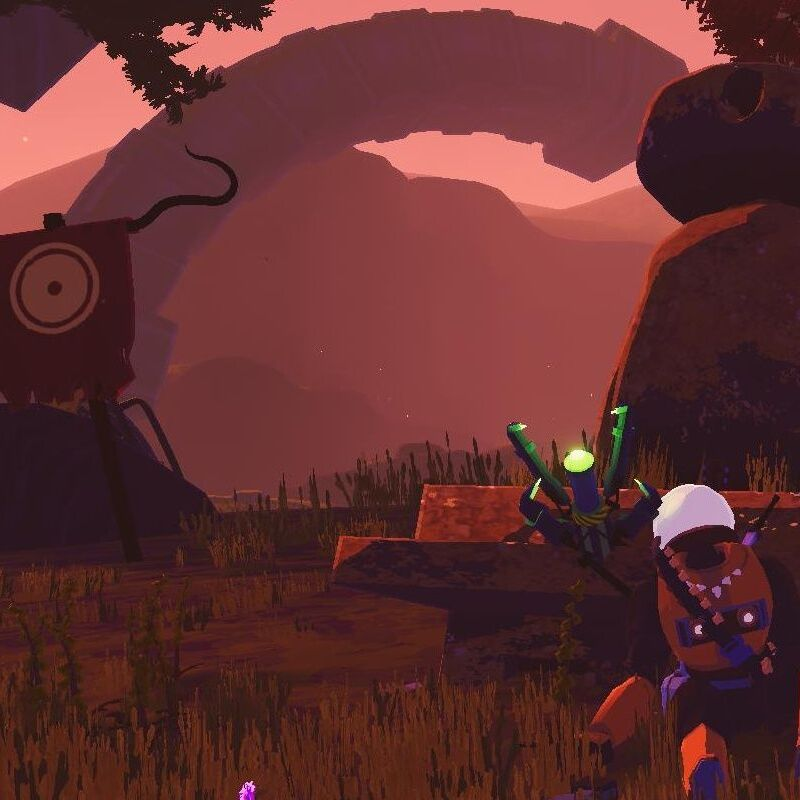
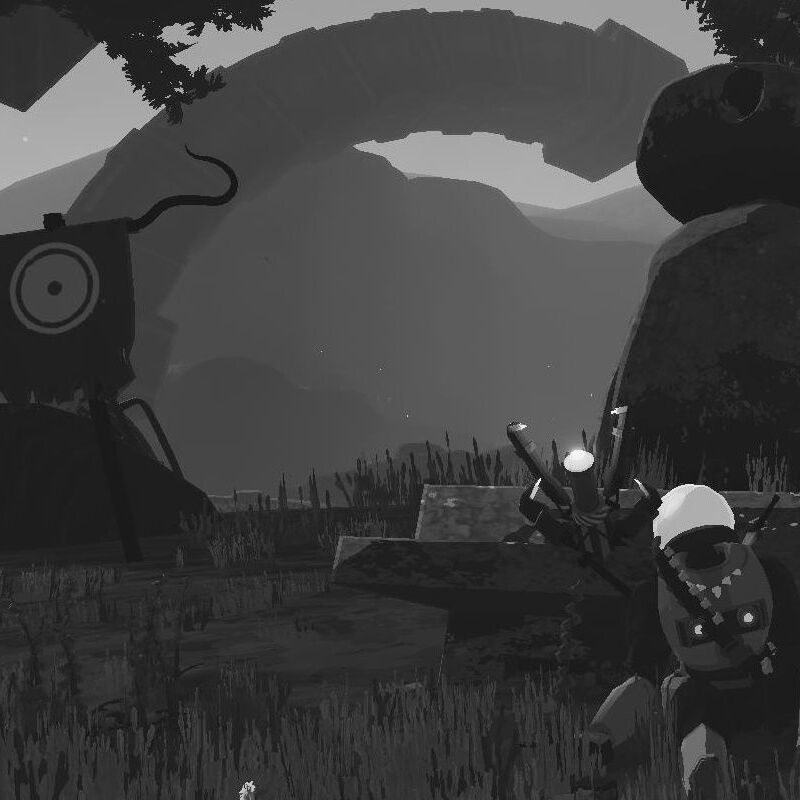
Edited lab07

diff --git a/lab07/lab07.cpp b/lab07/lab07.cpp
@@ -15,88 +15,61 @@ constexpr int N = W * H;
 static uint8_t src[N];
 
 
-static void blur3x3_scalar(const uint8_t* s, uint8_t* d, int w, int h)
-{
+static void blur2x2_scalar(const uint8_t* s, uint8_t* d, int w, int h) {
     std::fill(d, d + w * h, 0);
-    for (int y = 1; y < h - 1; ++y) {
-        const uint8_t* r0 = s + (y - 1) * w;
-        const uint8_t* r1 = s + (y    ) * w;
-        const uint8_t* r2 = s + (y + 1) * w;
-
+    for (int y = 0; y < h - 1; ++y) {
+        const uint8_t* r0 = s + y * w;
+        const uint8_t* r1 = s + (y + 1) * w;
         uint8_t* out = d + y * w;
-        for (int x = 1; x < w - 1; ++x) {
-            int sum = r0[x - 1] + r0[x] + r0[x + 1] + r1[x - 1] + r1[x] + r1[x + 1] + r2[x - 1] + r2[x] + r2[x + 1];
-            out[x] = (uint8_t)(sum / 9);
+
+        for (int x = 0; x < w - 1; ++x) {
+            int sum = r0[x] + r0[x + 1] + r1[x] + r1[x + 1];
+            out[x] = (uint8_t)(sum / 4);
         }
     }
 }
 
 
-static inline __m128i div9_u16_to_u8_exact(__m256i s_u16) {
-    const __m256i mul = _mm256_set1_epi16(7282);
-    __m256i q_u16 = _mm256_mulhi_epu16(s_u16, mul);
-    __m128i lo = _mm256_castsi256_si128(q_u16);
-    __m128i hi = _mm256_extracti128_si256(q_u16, 1);
-    return _mm_packus_epi16(lo, hi);
-}
-
-
-static void blur3x3_avx2(const uint8_t* s, uint8_t* d, int w, int h) {
+static void blur2x2_avx2(const uint8_t* s, uint8_t* d, int w, int h) {
     std::fill(d, d + w * h, 0);
 
-    std::vector<uint16_t> H0(w), H1(w), H2(w);
-
-    auto horiz_sum = [&](int y, std::vector<uint16_t>& Hr) {
-        Hr[0] = Hr[w - 1] = 0;
-        const uint8_t* r = s + y * w;
-
-        int x = 1;
-        for (; x + 15 < w - 1; x += 16) {
-            __m128i a = _mm_loadu_si128((const __m128i*)(r + (x - 1)));
-            __m128i b = _mm_loadu_si128((const __m128i*)(r + (x)));
-            __m128i c = _mm_loadu_si128((const __m128i*)(r + (x + 1)));
-
-            __m256i a16 = _mm256_cvtepu8_epi16(a);
-            __m256i b16 = _mm256_cvtepu8_epi16(b);
-            __m256i c16 = _mm256_cvtepu8_epi16(c);
-
-            __m256i sum = _mm256_add_epi16(_mm256_add_epi16(a16, b16), c16);
-            _mm256_storeu_si256((__m256i*)(Hr.data() + x), sum);
-        }
-
-        for (; x < w - 1; ++x) {
-            Hr[x] = (uint16_t)r[x - 1] + (uint16_t)r[x] + (uint16_t)r[x + 1];
-        }
-    };
-
-    horiz_sum(0, H0);
-    horiz_sum(1, H1);
-
-    for (int y = 1; y < h - 1; ++y) {
-        horiz_sum(y + 1, H2);
-
+    for (int y = 0; y < h - 1; ++y) {
+        const uint8_t* r0 = s + y * w;
+        const uint8_t* r1 = s + (y + 1) * w;
         uint8_t* out = d + y * w;
 
-        int x = 1;
+        int x = 0;
         for (; x + 15 < w - 1; x += 16) {
-            __m256i h0 = _mm256_loadu_si256((const __m256i*)(H0.data() + x));
-            __m256i h1 = _mm256_loadu_si256((const __m256i*)(H1.data() + x));
-            __m256i h2 = _mm256_loadu_si256((const __m256i*)(H2.data() + x));
+            __m128i a0 = _mm_loadu_si128((const __m128i*)(r0 + x));
+            __m128i b0 = _mm_loadu_si128((const __m128i*)(r0 + x + 1));
+            __m128i a1 = _mm_loadu_si128((const __m128i*)(r1 + x));
+            __m128i b1 = _mm_loadu_si128((const __m128i*)(r1 + x + 1));
 
-            __m256i s3 = _mm256_add_epi16(_mm256_add_epi16(h0, h1), h2);
-            __m128i out16 = div9_u16_to_u8_exact(s3);
+            __m256i a0_16 = _mm256_cvtepu8_epi16(a0);
+            __m256i b0_16 = _mm256_cvtepu8_epi16(b0);
+            __m256i a1_16 = _mm256_cvtepu8_epi16(a1);
+            __m256i b1_16 = _mm256_cvtepu8_epi16(b1);
+
+            __m256i sum16 = _mm256_add_epi16(_mm256_add_epi16(a0_16, b0_16),
+                                             _mm256_add_epi16(a1_16, b1_16));
+
+            __m256i avg16 = _mm256_srli_epi16(sum16, 2);
+
+            __m128i lo = _mm256_castsi256_si128(avg16);
+            __m128i hi = _mm256_extracti128_si256(avg16, 1);
+
+            __m128i out16 = _mm_packus_epi16(lo, hi);
+
             _mm_storeu_si128((__m128i*)(out + x), out16);
         }
 
         for (; x < w - 1; ++x) {
-            uint16_t sum = (uint16_t)(H0[x] + H1[x] + H2[x]);
-            out[x] = (uint8_t)(sum / 9);
+            int sum = r0[x] + r0[x + 1] + r1[x] + r1[x + 1];
+            out[x] = (uint8_t)(sum / 4);
         }
-
-        H0.swap(H1);
-        H1.swap(H2);
     }
 }
+
 
 static int max_abs_diff(const uint8_t* a, const uint8_t* b, int n) {
     int md = 0;
@@ -104,7 +77,6 @@ static int max_abs_diff(const uint8_t* a, const uint8_t* b, int n) {
         int d = std::abs((int)a[i] - (int)b[i]);
         md = std::max(md, d);
     }
-
     return md;
 }
 
@@ -112,18 +84,18 @@ static int max_abs_diff(const uint8_t* a, const uint8_t* b, int n) {
 template <class F>
 static double bench_ms(F&& f, int iters) {
     using clock = std::chrono::steady_clock;
+
     for (int i = 0; i < 5; ++i) {
         f(); // warm up
     }
-
     auto t0 = clock::now();
+
     for (int i = 0; i < iters; ++i) {
         f();
     }
-
     auto t1 = clock::now();
-    std::chrono::duration<double, std::milli> ms = t1 - t0;
 
+    std::chrono::duration<double, std::milli> ms = t1 - t0;
     return ms.count() / iters;
 }
 
@@ -145,18 +117,22 @@ int main() {
 
     std::vector<uint8_t> out_scalar(N), out_avx2(N);
 
-    blur3x3_scalar(src, out_scalar.data(), W, H);
-    blur3x3_avx2(src, out_avx2.data(), W, H);
+    blur2x2_scalar(src, out_scalar.data(), W, H);
+    blur2x2_avx2(src, out_avx2.data(), W, H);
 
-    std::cout << "max_abs_diff(scalar, avx2) = " << max_abs_diff(out_scalar.data(), out_avx2.data(), N) << std::endl;
+    int md = max_abs_diff(out_scalar.data(), out_avx2.data(), N);
+    std::cout << "max_abs_diff(scalar, avx2) = " << md << std::endl;
+    if (md != 0) {
+        return 2;
+    }
 
     constexpr int iters = 300;
 
-    double t_scalar = bench_ms([&] { blur3x3_scalar(src, out_scalar.data(), W, H); }, iters);
-    double t_avx2   = bench_ms([&] { blur3x3_avx2(src, out_avx2.data(), W, H); }, iters);
+    double t_scalar = bench_ms([&] { blur2x2_scalar(src, out_scalar.data(), W, H); }, iters);
+    double t_avx2   = bench_ms([&] { blur2x2_avx2(src, out_avx2.data(), W, H); }, iters);
 
     std::cout << "avg scalar: " << t_scalar << " ms" << std::endl;
-    std::cout << "avg avx2  : " << t_avx2 << " ms" << std::endl;
+    std::cout << "avg avx2  : " << t_avx2   << " ms" << std::endl;
     std::cout << "speedup   : " << (t_scalar / t_avx2) << "x" << std::endl;
 
     sink_checksum(out_avx2.data(), N);

diff --git a/lab07/img_to_raw.py b/lab07/img_to_raw.py
@@ -7,5 +7,9 @@ gray = cv2.cvtColor(img, cv2.COLOR_BGR2GRAY)
 # uint8 and C-contiguous
 gray = np.ascontiguousarray(gray, dtype=np.uint8)
 
+# RAW
 with open("img.raw", "wb") as f:
     f.write(gray.tobytes())
+
+# PNG
+cv2.imwrite("img.png", gray)
